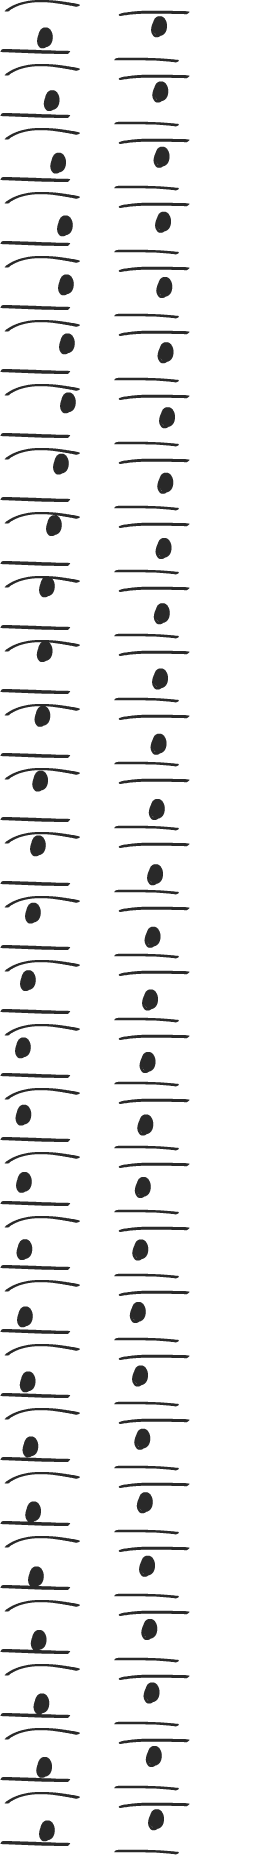
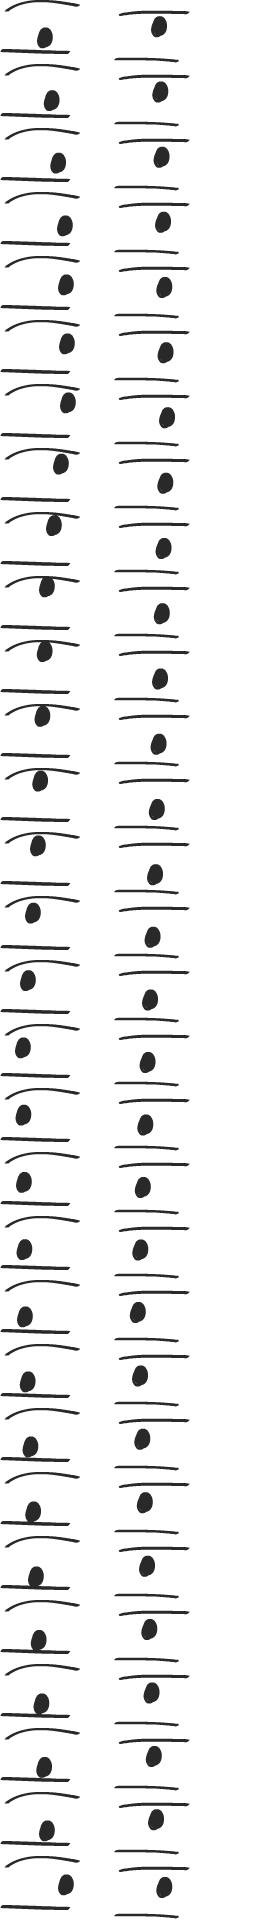
split animations

Changed region(s): [[0.0, 0.0, 0.3125, 1.0], [0.4375, 0.0, 0.7188, 1.0]]

diff --git a/src/components/Farty.vue b/src/components/Farty.vue
@@ -2,7 +2,7 @@
   <v-container>
     <v-layout text-xs-center wrap>
       <v-flex xs12>
-        <h1>Feed Pete!</h1>
+        <h1>Feed Patrick!</h1>
         <!-- <v-img :src="require('../assets/logo.svg')" class="my-3" contain height="200"></v-img> -->
         <!-- <draggable
           class="mouth"
@@ -10,35 +10,9 @@
           :group="{name: 'eating', pull: false,put:true}"
           @change="onChange"
         > -->
-        <v-card dard color = "gray">
+        <!-- <v-card dard color = "gray"> -->
           <Game/>
-        </v-card>
-        <v-flex mouth>
-          <!-- <man/> -->
-          <v-img
-            v-if="isChewing === false"
-            :src="require('../assets/pete-still.gif')"
-            class="my-3"
-            contain
-            height="200"
-            width="300"
-          ></v-img>
-          <v-img
-            v-if="isChewing === true"
-            class="my-3"
-            contain
-            height="200"
-            width="300"
-          ></v-img>
-          <v-img
-            v-if="isChewing === true"
-            :src="require('../assets/pete.gif')"
-            class="my-4"
-            contain
-            height="200"
-            width="300"
-          ></v-img>
-        </v-flex>
+        <!-- </v-card> -->
         <!-- </draggable> -->
       </v-flex>
 
@@ -277,6 +251,14 @@ export default class Farty extends Vue {
             // let source = this.$data.audioContext.createMediaElementSource(audioElement)
             // source.connect(this.$data.audioContext.destination)
 
+            //delay a smidge to align better with audio.
+            setTimeout(()=>{
+              let game:Phaser.Game =  this.$store.getters.getGame;
+              let scene:PlayScene = game.scene.getScene('PlayScene');
+              scene.playDizzy();
+            },100)
+
+
             this.$store.dispatch('addLog', fartComponent.name + " " + this.$data.audioContext.state)
 
             try {
@@ -429,12 +411,12 @@ export default class Farty extends Vue {
 
   onChange(event) {
     //todo:add food to digestion system.
-    this.$data.isChewing = true
-    setTimeout(() => {
-      this.$data.isChewing = false
-    }, 3000)
+    // this.$data.isChewing = true
+    // setTimeout(() => {
+    //   this.$data.isChewing = false
+    // }, 3000)
 
-    this.eatFood(event.added.element.foodObj)
+    // this.eatFood(event.added.element.foodObj)
 
   }
   onAdd(event) {

diff --git a/src/scenes/PlayScene.js b/src/scenes/PlayScene.js
@@ -30,20 +30,20 @@ export default class PlayScene extends Scene {
     //   this.sound.play('thud', { volume: 0.75 })
     // })
 
-    let bread = this.add.sprite(50,50,'bread',0)
-    bread.scaleX = .2;
-    bread.scaleY = .2;
+    // let bread = this.add.sprite(50,50,'bread',0)
+    // bread.scaleX = .2;
+    // bread.scaleY = .2;
 
 
     let patrick = this.patrick = this.add.sprite(150,100,'patrick',0)
     patrick.scaleX = .45;
     patrick.scaleY = .45;
 
-    let patrickEyes = this.patrickEyes = this.add.sprite(215,50, 'patrick-eyes', 0)
+    let patrickEyes = this.patrickEyes = this.add.sprite(215,50, 'patrick-eyes', 29)
     patrickEyes.scaleX = .25
     patrickEyes.scaleY = .25
 
-    let patrickMouth = this.patrickMouth = this.add.sprite(208,95, 'patrick-mouth',0)
+    let patrickMouth = this.patrickMouth = this.add.sprite(208,95, 'patrick-mouth',5)
     patrickMouth.scaleX = .2
     patrickMouth.scaleY = .2
 
@@ -63,7 +63,7 @@ export default class PlayScene extends Scene {
 
     let configMouthClosed = {
       key: 'patrick-mouth-closed',
-      frames: this.anims.generateFrameNumbers('patrick-mouth', { start: 0, end: 0, first: 0 }),
+      frames: this.anims.generateFrameNumbers('patrick-mouth', { start: 5, end: 5, first: 5 }),
       frameRate: 30,
       repeat: -1,
       repeatDelay: 2
@@ -75,10 +75,20 @@ export default class PlayScene extends Scene {
       key: 'patrick-eyes-googly',
       frames: this.anims.generateFrameNumbers('patrick-eyes', { start: 0, end: 28, first: 0 }),
       frameRate: 60,
-      repeat: 1,
+      repeat: 10,
       repeatDelay: 2
     };
     this.anims.create(googlyEyes);
+
+    let plainEyes = {
+      key: 'patrick-eyes-plain',
+      frames: this.anims.generateFrameNumbers('patrick-eyes', { start: 29, end: 29, first: 29 }),
+      frameRate: 30,
+      repeat: -1,
+      repeatDelay: 2
+    };
+    this.anims.create(plainEyes);
+
 
     let self = this
     patrick.on('pointerdown', function(pointer){
@@ -142,7 +152,12 @@ export default class PlayScene extends Scene {
     //   peteChomp.anims.(1,"pete-still")
     // },this)
 
+
+  }
+
+  playDizzy(){
     this.patrickEyes.anims.delayedPlay(1,"patrick-eyes-googly")
+    .anims.chain('patrick-eyes-plain')
 
   }
 

diff --git a/src/scenes/BootScene.js b/src/scenes/BootScene.js
@@ -20,10 +20,10 @@ export default class BootScene extends Scene {
     // this.load.image('sky', sky)
     // this.load.image('bomb', bomb)
     // this.load.audio('thud', [thudMp3, thudOgg])
-    this.load.image('bread', bread)
+    // this.load.image('bread', bread)
     this.load.spritesheet('patrick', patrick, { frameWidth: 540, frameHeight:443, endFrame :0})
     this.load.spritesheet('patrick-mouth', patrickMouth, { frameWidth: 256, frameHeight: 128, endFrame: 5 });
-    this.load.spritesheet('patrick-eyes', patrickEyes, { frameWidth: 256, frameHeight: 64, endFrame: 28 });
+    this.load.spritesheet('patrick-eyes', patrickEyes, { frameWidth: 256, frameHeight: 64, endFrame: 29 });
     // this.load.spritesheet('chomp', pete, { frameWidth: 313, frameHeight: 451, endFrame: 23 });
 
   }

diff --git a/src/game.ts b/src/game.ts
@@ -17,7 +17,7 @@ export default class GameLaunch {
             scale: {
                 mode: Phaser.Scale.FIT,
                 width: 300,
-                height: 300,
+                height: 200,
                 parent: 'game-container',
             },
             scene: [BootScene, PlayScene],
